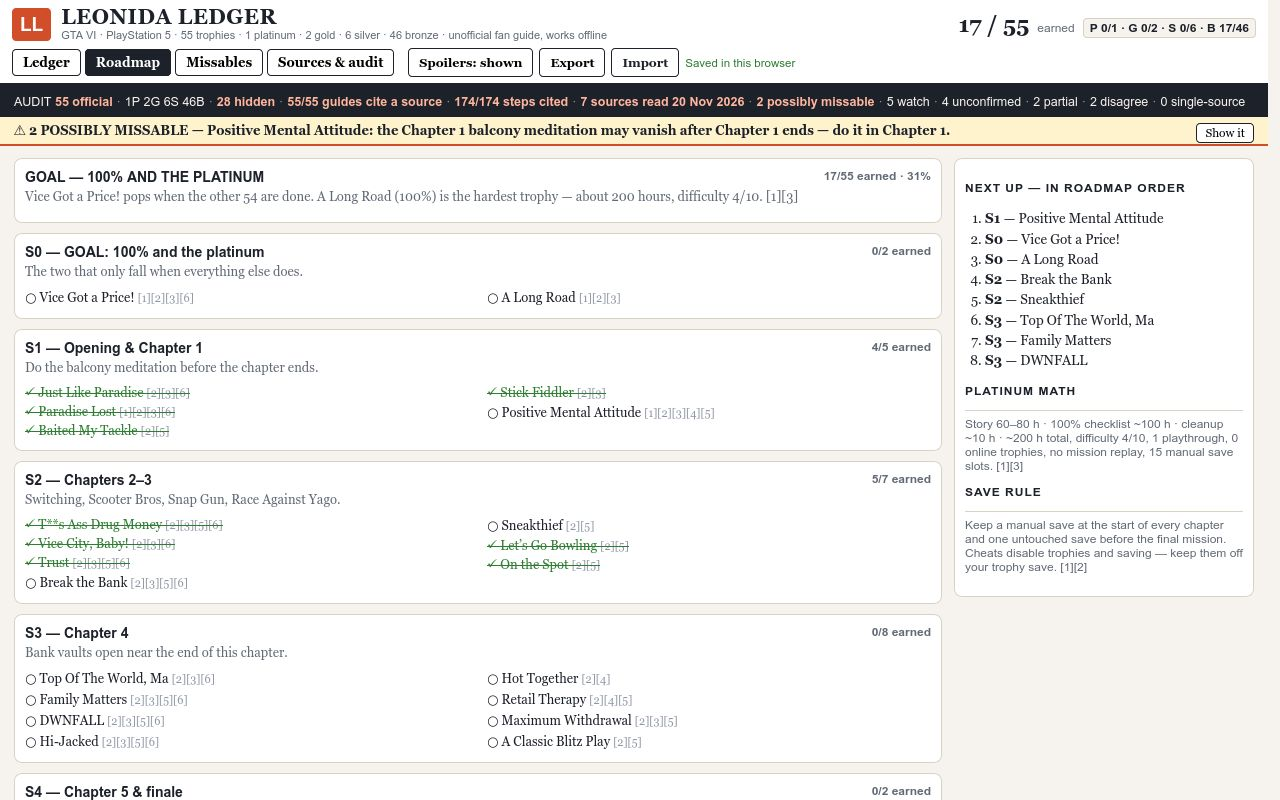
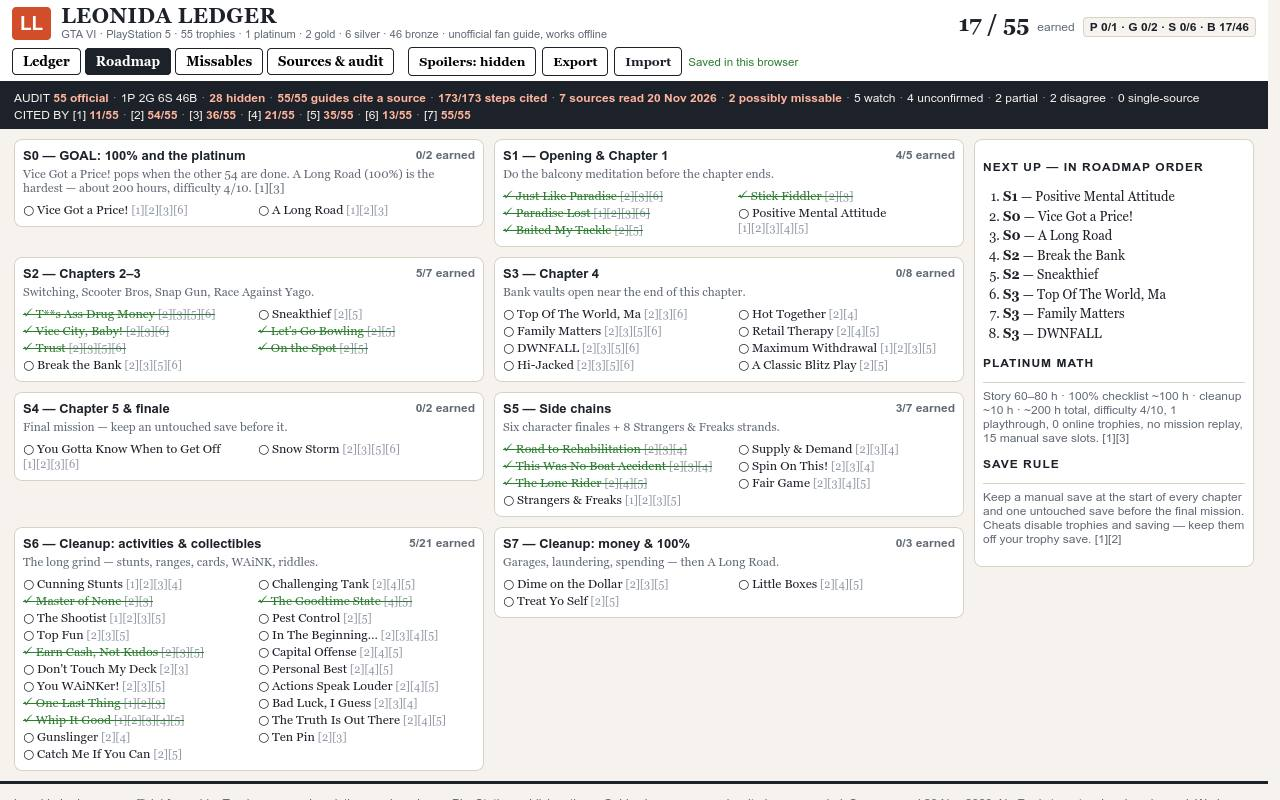
Leonida Ledger v2: dense cover (11 rows above fold), S0-S7 strip, spoilers hidden by default, sources by cited-by, PMA 7 steps (173/173 cited)

Changed region(s): [[0.0, 0.0, 1.0, 1.0], [0.375, 0.8438, 0.5312, 0.9375], [0.7812, 0.0, 0.9688, 0.0625]]

diff --git a/app/style.css b/app/style.css
@@ -4,7 +4,7 @@ body{margin:0;background:#f6f3ee;color:#1d2129;font-family:Georgia,'Iowan Old St
 body,input,select,button{font-family:Georgia,'Iowan Old Style',Palatino,serif}
 button{cursor:pointer}
 .hidden{display:none!important}
-.top{display:flex;flex-wrap:wrap;align-items:center;gap:6px 14px;background:#fff;border-bottom:3px solid #1d2129;padding:6px 12px}
+.top{display:flex;flex-wrap:wrap;align-items:center;gap:6px 14px;background:#fff;border-bottom:3px solid #1d2129;padding:5px 12px}
 .brand{display:flex;gap:10px;align-items:center;min-width:0}
 .mark{background:#d24e2a;color:#fff;font-weight:700;font-size:19px;padding:5px 8px;border-radius:4px;font-family:Arial,Helvetica,sans-serif}
 .brand h1{font-size:21px;margin:0;letter-spacing:.5px;line-height:1}
@@ -20,49 +20,55 @@ button{cursor:pointer}
 .topbtns button,.importBtn{border:1px solid #1d2129;background:#fff;padding:6px 10px;border-radius:4px;font-size:12.5px;font-weight:700}
 .importBtn input{display:none}
 .saved{font-size:11.5px;color:#2e7d32;font-family:Arial,Helvetica,sans-serif}
-.audit{background:#1d2129;color:#f6f3ee;font-family:Arial,Helvetica,sans-serif;font-size:12.5px;padding:6px 14px;line-height:1.5}
+.audit{background:#1d2129;color:#f6f3ee;font-family:Arial,Helvetica,sans-serif;font-size:12px;padding:5px 14px;line-height:1.45}
 .audit b{color:#ffb59e}
 .audit .sep{color:#8e96a3;padding:0 4px}
-.warn{background:#fff3cd;border-bottom:2px solid #d24e2a;padding:6px 14px;font-size:13px;font-weight:700}
+.roadstrip{display:flex;gap:4px;background:#fff;border-bottom:2px solid #1d2129;padding:4px 14px;overflow:hidden}
+.roadstrip button{flex:1;min-width:0;white-space:nowrap;overflow:hidden;text-overflow:ellipsis;border:1px solid #b9b2a2;background:#f6f3ee;border-radius:4px;padding:3px 4px;font-size:11px;font-family:Arial,Helvetica,sans-serif}
+.roadstrip button b{color:#d24e2a}
+.warn{background:#fff3cd;border-bottom:2px solid #d24e2a;padding:5px 14px;font-size:12.5px;font-weight:700}
 .warn button{float:right;border:1px solid #1d2129;background:#fff;border-radius:4px;padding:2px 8px;font-size:12px}
-.view{display:grid;grid-template-columns:300px minmax(0,1fr) 300px;gap:12px;padding:12px 14px;align-items:start}
-.col{background:#fff;border:1px solid #d8d2c4;border-radius:8px;padding:10px}
+.view{display:grid;grid-template-columns:300px minmax(0,1fr) 300px;gap:10px;padding:10px 14px;align-items:start}
+.col{background:#fff;border:1px solid #d8d2c4;border-radius:8px;padding:8px 10px}
 .filters{display:flex;flex-wrap:wrap;gap:4px}
-.filters button{border:1px solid #b9b2a2;background:#f6f3ee;border-radius:20px;padding:3px 9px;font-size:12px;font-family:Arial,Helvetica,sans-serif}
+.filters button{border:1px solid #b9b2a2;background:#f6f3ee;border-radius:20px;padding:2px 7px;font-size:11.5px;font-family:Arial,Helvetica,sans-serif}
 .filters button.on{background:#d24e2a;border-color:#d24e2a;color:#fff;font-weight:700}
-.tools{display:flex;flex-direction:column;gap:6px;margin:10px 0}
-.tools input,.tools select{border:1px solid #b9b2a2;border-radius:4px;padding:6px 8px;font-size:13px;width:100%}
-.tools .chk{font-size:13px;font-family:Arial,Helvetica,sans-serif}
-.nextup h3,.col h3{font-size:12px;letter-spacing:1px;margin:0 0 6px;font-family:Arial,Helvetica,sans-serif}
-.nextup{border-top:2px solid #1d2129;padding-top:8px;margin-bottom:8px}
-.nextup .nu{font-size:12.5px;padding:3px 0;border-bottom:1px dotted #d8d2c4;font-family:Arial,Helvetica,sans-serif}
+.tools{display:flex;flex-direction:row;gap:6px;margin:8px 0;align-items:center;flex-wrap:wrap}
+.tools input{flex:1;min-width:0;border:1px solid #b9b2a2;border-radius:4px;padding:5px 6px;font-size:12.5px}
+.tools select{width:120px;border:1px solid #b9b2a2;border-radius:4px;padding:5px 6px;font-size:12.5px}
+.tools .chk{font-size:12.5px;font-family:Arial,Helvetica,sans-serif;white-space:nowrap;flex-basis:100%}
+.nextup h3,.col h3{font-size:12px;letter-spacing:1px;margin:0 0 5px;font-family:Arial,Helvetica,sans-serif}
+.nextup{border-top:2px solid #1d2129;padding-top:6px;margin-bottom:6px}
+.nextup .nu{font-size:12px;padding:2px 0;border-bottom:1px dotted #d8d2c4;font-family:Arial,Helvetica,sans-serif;white-space:nowrap;overflow:hidden;text-overflow:ellipsis}
 .nextup .nu b{color:#d24e2a}
 .list{list-style:none;margin:0;padding:0}
-.list li{display:flex;gap:7px;padding:6px 4px;border-bottom:1px solid #ece7db;cursor:pointer;align-items:flex-start}
+.list li{display:flex;gap:6px;padding:3px 4px;border-bottom:1px solid #ece7db;cursor:pointer;align-items:center}
 .list li.sel{background:#fff3e8;border-left:3px solid #d24e2a}
-.list li input{margin-top:2px;accent-color:#d24e2a}
-.g{flex:none;width:22px;height:22px;border-radius:50%;text-align:center;line-height:22px;font-size:11px;font-weight:700;font-family:Arial,Helvetica,sans-serif;color:#fff}
+.list li input{margin-top:0;accent-color:#d24e2a;flex:none}
+.g{flex:none;width:20px;height:20px;border-radius:50%;text-align:center;line-height:20px;font-size:10.5px;font-weight:700;font-family:Arial,Helvetica,sans-serif;color:#fff}
 .g-platinum{background:#7a6ff0}.g-gold{background:#b8860b}.g-silver{background:#7d8a99}.g-bronze{background:#b9784c}
-.list .nm{font-size:13.5px;font-weight:700;line-height:1.25}
-.list .ds{font-size:12px;color:#626a75;line-height:1.3}
-.list .meta{font-size:11px;color:#8e96a3;font-family:Arial,Helvetica,sans-serif}
+.list .tx{flex:1;min-width:0;white-space:nowrap;overflow:hidden;text-overflow:ellipsis;font-size:12.5px;line-height:1.3}
+.list .tx .nm{font-weight:700}
+.list .tx .ds{color:#626a75;font-size:12px}
+.list .tx .meta{font-size:11px;color:#8e96a3;font-family:Arial,Helvetica,sans-serif}
+.list .rv{flex:none;border:1px solid #1d2129;background:#fff;border-radius:4px;padding:1px 7px;font-size:11px;font-weight:700}
 .tag{display:inline-block;font-size:10px;font-weight:700;border-radius:3px;padding:1px 5px;font-family:Arial,Helvetica,sans-serif;vertical-align:middle}
 .tag-miss{background:#d24e2a;color:#fff}.tag-watch{background:#fff3cd;color:#7a5b00;border:1px solid #d8c26a}.tag-unc{background:#ece7db;color:#626a75}.tag-hid{background:#1d2129;color:#fff}
 .count{font-size:12px;color:#626a75;font-family:Arial,Helvetica,sans-serif}
-.mid h2{font-size:22px;margin:2px 0 4px;line-height:1.15}
+.mid h2{font-size:19px;margin:2px 0 3px;line-height:1.15}
 .mid .sub{font-size:12.5px;color:#626a75;font-family:Arial,Helvetica,sans-serif}
-.mid .off{border-top:2px solid #1d2129;border-bottom:1px solid #d8d2c4;padding:6px 0;margin:8px 0}
+.mid .off{border-top:2px solid #1d2129;border-bottom:1px solid #d8d2c4;padding:5px 0;margin:6px 0}
 .mid .off b{font-size:11px;letter-spacing:1px;font-family:Arial,Helvetica,sans-serif}
-.callout{border:2px solid #d24e2a;background:#fff3e8;padding:8px 10px;border-radius:6px;margin:8px 0;font-size:13.5px}
+.callout{border:2px solid #d24e2a;background:#fff3e8;padding:6px 8px;border-radius:6px;margin:6px 0;font-size:13px}
 .callout.warn2{border-color:#b9b2a2;background:#f6f3ee}
 .callout b{color:#d24e2a}
-.mid h4{font-size:11px;letter-spacing:1px;margin:12px 0 4px;font-family:Arial,Helvetica,sans-serif}
-.mid p{font-size:14px;line-height:1.45;margin:4px 0}
+.mid h4{font-size:11px;letter-spacing:1px;margin:10px 0 3px;font-family:Arial,Helvetica,sans-serif}
+.mid p{font-size:13.5px;line-height:1.4;margin:3px 0}
 .steps{margin:4px 0;padding-left:0;list-style:none;counter-reset:s}
-.steps li{counter-increment:s;font-size:13.5px;line-height:1.45;padding:5px 0 5px 30px;position:relative;border-bottom:1px dotted #ece7db}
-.steps li:before{content:counter(s);position:absolute;left:0;top:5px;width:20px;height:20px;border-radius:50%;background:#1d2129;color:#fff;text-align:center;line-height:20px;font-size:11px;font-weight:700;font-family:Arial,Helvetica,sans-serif}
+.steps li{counter-increment:s;font-size:13px;line-height:1.4;padding:3px 0 3px 28px;position:relative;border-bottom:1px dotted #ece7db}
+.steps li:before{content:counter(s);position:absolute;left:0;top:3px;width:20px;height:20px;border-radius:50%;background:#1d2129;color:#fff;text-align:center;line-height:20px;font-size:11px;font-weight:700;font-family:Arial,Helvetica,sans-serif}
 .cite{font-size:11px;color:#8e96a3;white-space:nowrap}
-.counter{display:flex;gap:8px;align-items:center;border:1px solid #d8d2c4;border-radius:6px;padding:8px 10px;margin:10px 0;font-size:13.5px}
+.counter{display:flex;gap:8px;align-items:center;border:1px solid #d8d2c4;border-radius:6px;padding:6px 8px;margin:8px 0;font-size:13.5px}
 .counter button{width:28px;height:28px;font-size:16px;border:1px solid #1d2129;background:#fff;border-radius:4px}
 .counter .bar{flex:1;height:10px;background:#ece7db;border-radius:5px;overflow:hidden}
 .counter .bar i{display:block;height:100%;background:#d24e2a}
@@ -70,13 +76,21 @@ button{cursor:pointer}
 .markbtn{float:right;border:2px solid #d24e2a;background:#d24e2a;color:#fff;border-radius:4px;padding:6px 12px;font-weight:700;font-size:13px}
 .markbtn.done{background:#fff;color:#2e7d32;border-color:#2e7d32}
 .right h3{font-size:12px;letter-spacing:1px;margin:0 0 6px;font-family:Arial,Helvetica,sans-serif}
-.src{border:1px solid #d8d2c4;border-radius:6px;padding:8px;margin-bottom:8px;font-size:12.5px}
+.src{border:1px solid #d8d2c4;border-radius:6px;padding:6px 8px;margin-bottom:6px;font-size:12px}
 .src b{font-size:13px}
 .src .u{color:#626a75;font-size:11.5px;word-break:break-all;font-family:Arial,Helvetica,sans-serif}
 .src .cb{height:8px;background:#ece7db;border-radius:4px;overflow:hidden;margin:5px 0 2px}
 .src .cb i{display:block;height:100%;background:#d24e2a}
 .src .cc{font-size:11.5px;color:#626a75;font-family:Arial,Helvetica,sans-serif}
 .roadmap{grid-column:1/3}
+#viewRoadmap{grid-template-columns:minmax(0,1fr) minmax(0,1fr) 280px}
+#viewRoadmap .roadmap{display:grid;grid-template-columns:1fr 1fr;gap:10px;align-items:start}
+#viewRoadmap .stage{margin-bottom:0;padding:8px}
+#viewRoadmap .stage h3{font-size:13px}
+#viewRoadmap .stage p{font-size:12px;margin:2px 0 6px}
+#viewRoadmap .stage li{font-size:12.5px;padding:1px 0}
+#viewRoadmap .planner{padding:8px}
+#viewRoadmap .planner ol{font-size:13px}
 .planner{background:#fff;border:1px solid #d8d2c4;border-radius:8px;padding:10px}
 .stage{border:1px solid #d8d2c4;border-radius:8px;background:#fff;padding:10px;margin-bottom:10px}
 .stage h3{font-size:14px;margin:0 0 4px;font-family:Arial,Helvetica,sans-serif}
@@ -97,4 +111,4 @@ button{cursor:pointer}
 .srcpage th,.srcpage td{border:1px solid #d8d2c4;padding:6px 8px;text-align:left;vertical-align:top}
 .srcpage th{background:#ece7db;font-family:Arial,Helvetica,sans-serif;font-size:12px}
 footer{border-top:3px solid #1d2129;padding:10px 14px;font-size:12px;color:#626a75;font-family:Arial,Helvetica,sans-serif;line-height:1.5}
-@media (max-width:900px){.view{grid-template-columns:1fr}.roadmap{grid-column:1}}
+@media (max-width:900px){.view{grid-template-columns:1fr}.roadmap{grid-column:1}#viewRoadmap{grid-template-columns:1fr}#viewRoadmap .roadmap{grid-template-columns:1fr}}

diff --git a/app/app.js b/app/app.js
@@ -7,7 +7,7 @@ const DEMO_COUNTS = { 15: 120, 17: 18, 28: 6, 31: 40, 32: 22, 35: 55 };
 const KIND_LABEL = { all: 'All', goal: 'Goal', story: 'Story', side: 'Side chains', collectibles: 'Collectibles', activities: 'Activities', crime: 'Crime', riddles: 'Riddles', money: 'Money', feats: 'Feats', online: 'Online' };
 const KIND_ORDER = ['all', 'story', 'missable', 'collectibles', 'activities', 'side', 'crime', 'riddles', 'money', 'feats', 'goal', 'online'];
 const STAGES = [
-  { n: 0, title: 'S0 — GOAL: 100% and the platinum', note: 'The two that only fall when everything else does.' },
+  { n: 0, title: 'S0 — GOAL: 100% and the platinum', note: 'Vice Got a Price! pops when the other 54 are done. A Long Road (100%) is the hardest — about 200 hours, difficulty 4/10. [1][3]' },
   { n: 1, title: 'S1 — Opening & Chapter 1', note: 'Do the balcony meditation before the chapter ends.' },
   { n: 2, title: 'S2 — Chapters 2–3', note: 'Switching, Scooter Bros, Snap Gun, Race Against Yago.' },
   { n: 3, title: 'S3 — Chapter 4', note: 'Bank vaults open near the end of this chapter.' },
@@ -33,7 +33,7 @@ function loadState() {
     s = {
       earned: new Set(demo ? DEMO_EARNED : []),
       counts: demo ? { ...DEMO_COUNTS } : {},
-      spoilers: 'shown',
+      spoilers: 'hidden',
     };
   }
   // URL params override saved state, so deep links (and screenshots) are deterministic.
@@ -75,7 +75,17 @@ function auditNumbers() {
 }
 function renderAudit() {
   const a = auditNumbers();
-  el('audit').innerHTML = 'AUDIT <b>55 official</b><span class="sep">·</span>1P 2G 6S 46B<span class="sep">·</span><b>' + a.hidden + ' hidden</b><span class="sep">·</span><b>' + a.guidesCited + '/55 guides cite a source</b><span class="sep">·</span><b>' + a.cited + '/' + a.steps + ' steps cited</b><span class="sep">·</span><b>7 sources read 20 Nov 2026</b><span class="sep">·</span><b>' + a.possible + ' possibly missable</b><span class="sep">·</span>' + a.watch + ' watch<span class="sep">·</span>' + a.unconfirmed + ' unconfirmed<span class="sep">·</span>' + a.partial + ' partial<span class="sep">·</span>' + a.disagree + ' disagree<span class="sep">·</span>' + a.single + ' single-source';
+  el('audit').innerHTML = 'AUDIT <b>55 official</b><span class="sep">·</span>1P 2G 6S 46B<span class="sep">·</span><b>' + a.hidden + ' hidden</b><span class="sep">·</span><b>' + a.guidesCited + '/55 guides cite a source</b><span class="sep">·</span><b>' + a.cited + '/' + a.steps + ' steps cited</b><span class="sep">·</span><b>7 sources read 20 Nov 2026</b><span class="sep">·</span><b>' + a.possible + ' possibly missable</b><span class="sep">·</span>' + a.watch + ' watch<span class="sep">·</span>' + a.unconfirmed + ' unconfirmed<span class="sep">·</span>' + a.partial + ' partial<span class="sep">·</span>' + a.disagree + ' disagree<span class="sep">·</span>' + a.single + ' single-source'
+    + '<br>CITED BY ' + [1, 2, 3, 4, 5, 6, 7].map(n => '[' + n + '] <b>' + citedBy(n) + '/55</b>').join('<span class="sep">·</span>');
+}
+function renderRoadstrip() {
+  const label = ['GOAL', 'Ch. 1', 'Ch. 2–3', 'Ch. 4', 'Ch. 5 &amp; finale', 'Side chains', 'Cleanup: act.&amp;coll.', 'Cleanup: money'];
+  el('roadstrip').innerHTML = STAGES.map(st => {
+    const items = trophies.filter(t => t.stage === st.n);
+    const done = items.filter(t => state.earned.has(t.id)).length;
+    return '<button type="button" data-stage="' + st.n + '">S' + st.n + ' ' + label[st.n] + ' <b>' + done + '/' + items.length + '</b></button>';
+  }).join('');
+  el('roadstrip').querySelectorAll('button').forEach(b => b.addEventListener('click', () => { state.view = 'roadmap'; renderAll(); }));
 }
 function renderWarn() {
   el('warnBar').innerHTML = '&#9888; 2 POSSIBLY MISSABLE — Positive Mental Attitude: the Chapter 1 balcony meditation may vanish after Chapter 1 ends — do it in Chapter 1. <button type="button" id="warnShow">Show it</button>';
@@ -124,16 +134,16 @@ function renderList() {
   el('list').innerHTML = list.map(t => {
     const earned = state.earned.has(t.id);
     const hid = isHiddenStory(t);
-    const name = hid ? 'Story trophy — hidden until earned' : esc(t.name);
+    const name = hid ? 'Story trophy — hidden' : esc(t.name);
     const desc = hid ? 'Spoiler setting is on. Earn it or tap Reveal.' : esc(t.description);
     return '<li data-id="' + t.id + '" class="' + (state.selected === t.id ? 'sel' : '') + '">'
       + '<input type="checkbox" ' + (earned ? 'checked' : '') + ' data-earn="' + t.id + '" aria-label="Mark ' + esc(t.name) + ' earned">'
       + '<span class="g g-' + t.grade + '">' + gradeLetter(t.grade) + '</span>'
-      + '<span><span class="nm">' + name + '</span>' + flagsHtml(t)
-      + '<br><span class="ds">' + desc + '</span>'
-      + '<br><span class="meta">#' + t.id + ' · ' + KIND_LABEL[t.kind] + ' · ' + STAGES[t.stage].title.split(' — ')[0] + ' · ' + citeList(trophySources(t)) + '</span>'
-      + (hid ? ' <button type="button" data-reveal="' + t.id + '">Reveal</button>' : '')
-      + '</span></li>';
+      + '<span class="tx"><span class="nm">' + name + '</span>' + flagsHtml(t)
+      + ' <span class="ds">' + desc + '</span>'
+      + ' <span class="meta">' + citeList(trophySources(t)) + '</span></span>'
+      + (hid ? ' <button type="button" class="rv" data-reveal="' + t.id + '">Reveal</button>' : '')
+      + '</li>';
   }).join('') || '<li>No trophies match this filter.</li>';
   el('shownCount').textContent = list.length + ' shown · ' + state.earned.size + ' of 55 earned';
   el('list').querySelectorAll('[data-earn]').forEach(cb => cb.addEventListener('change', () => {
@@ -193,8 +203,17 @@ function citedBy(n) {
   if (n === 7) return trophies.length;
   return trophies.filter(t => trophySources(t).includes(n)).length;
 }
+function sourcesByCited() {
+  // Most-cited guide first; [7] is the official list itself — it underlies every
+  // entry's name/description/grade, so it sits last, not first.
+  return sources.slice().sort((a, b) => {
+    if (a.n === 7) return 1;
+    if (b.n === 7) return -1;
+    return citedBy(b.n) - citedBy(a.n);
+  });
+}
 function renderSourcesPanel() {
-  el('sourcesPanel').innerHTML = '<h3>SOURCES — READ 20 NOV 2026</h3>' + sources.map(s => {
+  el('sourcesPanel').innerHTML = '<h3>SOURCES — READ 20 NOV 2026</h3>' + sourcesByCited().map(s => {
     const n = citedBy(s.n), pct = Math.round(n / 55 * 100);
     return '<div class="src"><b>[' + s.n + '] ' + esc(s.name) + '</b> — ' + esc(s.title)
       + '<br><span class="u">' + esc(s.url) + '</span>'
@@ -203,8 +222,7 @@ function renderSourcesPanel() {
   }).join('') + '<p class="foot">Every step cites at least one source. A link opens only if you follow it — the app fetches nothing.</p>';
 }
 function renderRoadmap() {
-  el('roadmap').innerHTML = '<div class="stage"><h3>GOAL — 100% AND THE PLATINUM <span>' + state.earned.size + '/55 earned · ' + Math.round(state.earned.size / 55 * 100) + '%</span></h3><p>Vice Got a Price! pops when the other 54 are done. A Long Road (100%) is the hardest trophy — about 200 hours, difficulty 4/10. [1][3]</p></div>'
-    + STAGES.map(st => {
+  el('roadmap').innerHTML = STAGES.map(st => {
       const items = trophies.filter(t => t.stage === st.n);
       const done = items.filter(t => state.earned.has(t.id)).length;
       return '<div class="stage"><h3>' + esc(st.title) + ' <span>' + done + '/' + items.length + ' earned</span></h3><p>' + esc(st.note) + '</p><ul>'
@@ -235,7 +253,7 @@ function renderSourcesPage() {
   el('sourcesPage').innerHTML = '<div class="stage"><h3>SOURCES &amp; AUDIT</h3><p class="big">AUDIT — <b>55 official</b> · 1P 2G 6S 46B · <b>' + a.hidden + ' hidden</b> · <b>' + a.guidesCited + '/55 guides cite a source</b> · <b>' + a.cited + '/' + a.steps + ' steps cited</b> · <b>7 sources read 20 Nov 2026</b> · ' + a.possible + ' possibly missable · ' + a.watch + ' watch · ' + a.unconfirmed + ' unconfirmed · ' + a.partial + ' partial · ' + a.disagree + ' disagree · ' + a.single + ' single-source.</p>'
     + '<p class="big">Where the numbers come from: the 55 names, descriptions and grades are the official list (Exophase / kit). “Sources disagree” is shown, not hidden: The Shootist (2 ranges per OutputLag, 12 per GTAZone) and Positive Mental Attitude (18 meditations for the trophy, 15 on the 100% list). “Not pinned down yet” means no guide we read has confirmed the trigger.</p></div>'
     + '<div class="stage"><h3>THE 7 SOURCES</h3><table><tr><th>#</th><th>Source</th><th>What it gave this guide</th><th>Cited by</th></tr>'
-    + sources.map(s => '<tr><td>[' + s.n + ']</td><td><b>' + esc(s.name) + '</b><br>' + esc(s.title) + '<br><span class="cite">' + esc(s.url) + '</span></td><td>' + esc(s.note) + '</td><td>' + citedBy(s.n) + ' / 55</td></tr>').join('') + '</table></div>'
+    + sourcesByCited().map(s => '<tr><td>[' + s.n + ']</td><td><b>' + esc(s.name) + '</b><br>' + esc(s.title) + '<br><span class="cite">' + esc(s.url) + '</span></td><td>' + esc(s.note) + '</td><td>' + citedBy(s.n) + ' / 55</td></tr>').join('') + '</table></div>'
     + '<div class="stage"><h3>EXPORT / IMPORT</h3><p class="big">Progress is saved in this browser (localStorage) the moment you tick a trophy or move a counter. <b>Export</b> downloads your progress as JSON; <b>Import</b> reads that file back on any machine. Use the buttons in the header. No account, no server, no network.</p></div>';
 }
 function renderHeader() {
@@ -244,6 +262,10 @@ function renderHeader() {
   trophies.forEach(t => { if (state.earned.has(t.id)) g[t.grade]++; });
   el('tally').textContent = 'P ' + g.platinum + '/1 · G ' + g.gold + '/2 · S ' + g.silver + '/6 · B ' + g.bronze + '/46';
   el('spoilerBtn').textContent = 'Spoilers: ' + state.spoilers;
+  // The missable banner belongs to the ledger; the stage strip duplicates the
+  // roadmap page, so each hides where it would only eat vertical space.
+  el('warnBar').style.display = state.view === 'ledger' ? '' : 'none';
+  el('roadstrip').style.display = state.view === 'roadmap' ? 'none' : '';
   el('tabs').querySelectorAll('button').forEach(b => b.classList.toggle('on', b.dataset.view === state.view));
   el('viewLedger').classList.toggle('hidden', state.view !== 'ledger');
   el('viewRoadmap').classList.toggle('hidden', state.view !== 'roadmap');
@@ -251,7 +273,7 @@ function renderHeader() {
   el('viewSources').classList.toggle('hidden', state.view !== 'sources');
 }
 function renderAll() {
-  renderHeader(); renderAudit(); renderFilters(); renderList(); renderDetail(); renderSourcesPanel();
+  renderHeader(); renderAudit(); renderRoadstrip(); renderFilters(); renderList(); renderDetail(); renderSourcesPanel();
   renderRoadmap(); renderMissables(); renderSourcesPage();
 }
 function exportProgress() {

diff --git a/app/index.html b/app/index.html
@@ -24,6 +24,7 @@
   </div>
 </header>
 <div class="audit" id="audit"></div>
+<div class="roadstrip" id="roadstrip"></div>
 <div class="warn" id="warnBar"></div>
 <main id="viewLedger" class="view">
   <section class="col left">
